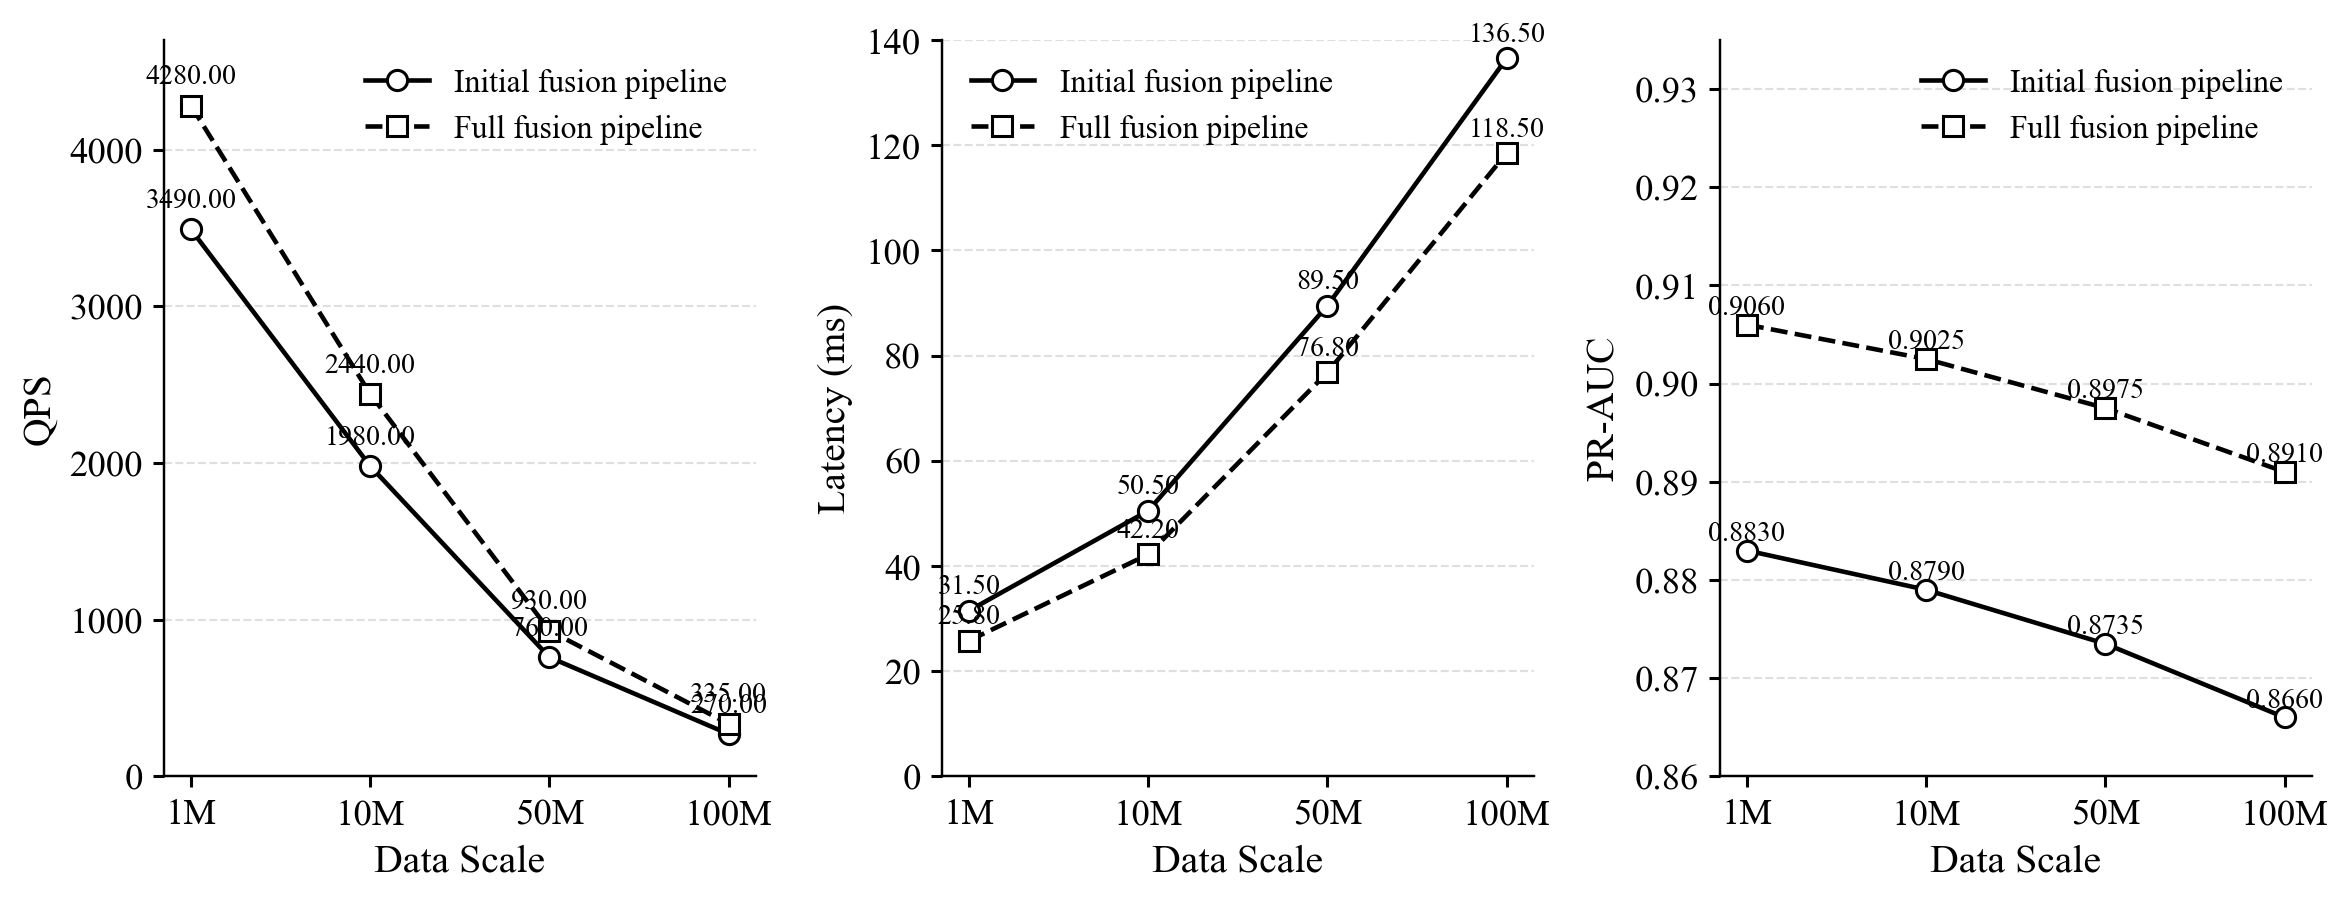
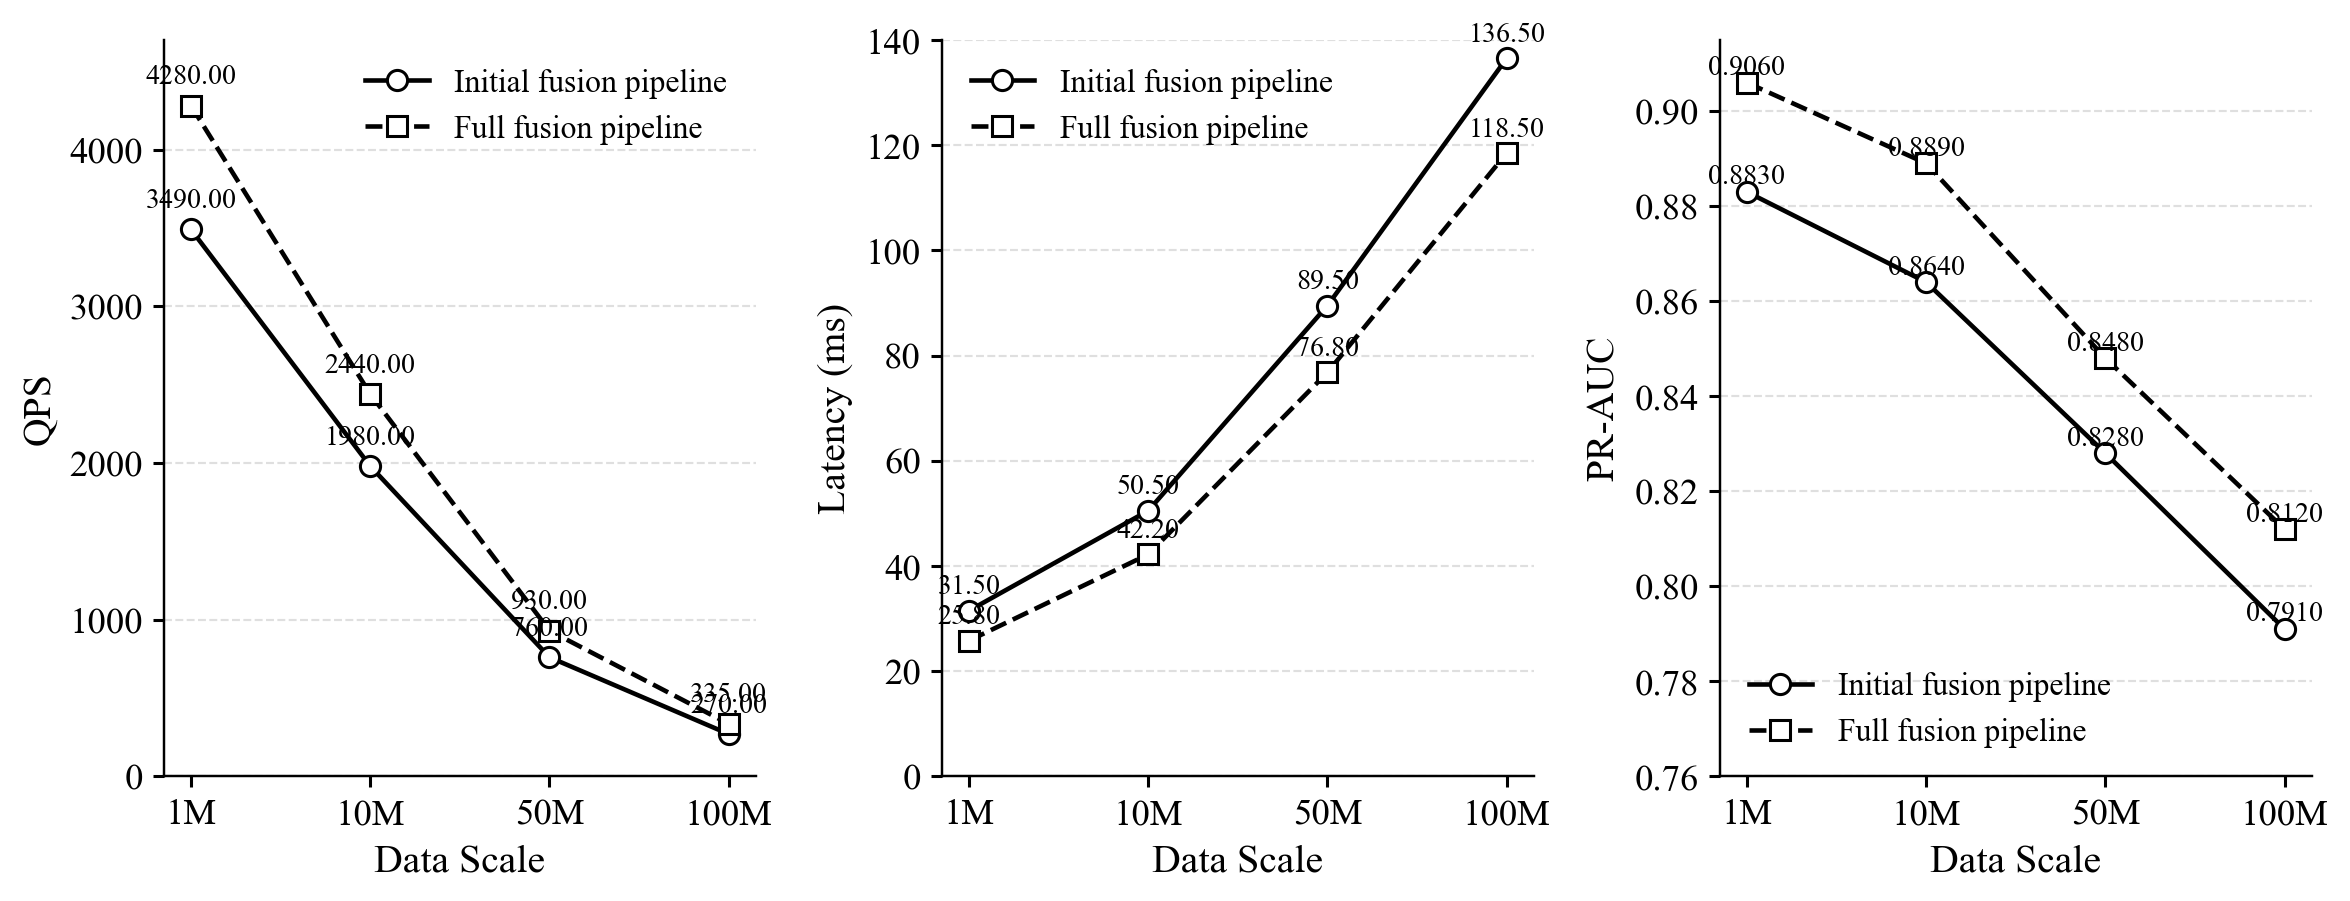
Updates from Overleaf

diff --git a/sysuthesis/chapters/chap06.tex b/sysuthesis/chapters/chap06.tex
@@ -348,7 +348,7 @@
 
 \subsection{不同数据规模下的系统表现对比}
 
-第四组结果回答“规模继续增大之后，系统还能否保持前述判断”。比较对象覆盖 1M、10M、50M、100M 四个规模层级，观察 QPS、p99 延迟和 PR-AUC 如何随规模变化。需要说明的是，PyTOD 全量评分可以作为 1M 量级下的效果上界参考，但并不适合作为 10M 以上规模的统一对照，因此这一组跨规模结果采用“初步融合方案”和“完整融合方案”作为可扩展口径下的比较对象。这里的重点不是证明系统在所有规模下都“同样优秀”，而是看在 out-of-core 路径和多 GPU 扩展逐渐进入关键位置后，前面得到的结论是否仍然成立：效果是否基本稳定，吞吐是否按预期下降，I/O 路径是否开始主导上限。
+第四组结果回答“规模继续增大之后，系统还能否保持前述判断”。比较对象覆盖 1M、10M、50M、100M 四个规模层级，观察 QPS、p99 延迟和 PR-AUC 如何随规模变化。需要说明的是，PyTOD 全量评分可以作为 1M 量级下的效果上界参考，但并不适合作为 10M 以上规模的统一对照，因此这一组跨规模结果采用“初步融合方案”和“完整融合方案”作为可扩展口径下的比较对象。这里更关注的是，在 out-of-core 路径和多 GPU 扩展逐渐进入关键位置后，系统性能与检测效果是否同时出现可解释的退化：吞吐是否按预期下降，p99 是否继续抬升，PR-AUC 和候选覆盖类指标是否在 10M 之后出现更明显回落，以及 I/O 路径是否开始主导上限。
 
 为便于综合展示，表~\ref{tab:core-summary} 汇总了核心结果，图~\ref{fig:fusion-vs-baselines}、图~\ref{fig:single-gpu-before-after}、图~\ref{fig:multi-gpu-scaling} 分别从检测效果、吞吐能力和效果--性能折中三个视角对融合系统与基线方案进行比较，图~\ref{fig:scale-comparison} 汇总单卡优化与多 GPU 扩展的收益差异，而图~\ref{fig:scale-trend} 则展示跨规模趋势。
 
@@ -368,7 +368,7 @@
     单卡链路优化收益 & 单卡优化 & QPS, p99 Latency, CPU Utilization & GPU 主导执行链路显著压缩阶段边界开销，p99 延迟和 CPU 负载同步下降，端到端吞吐明显提升 & 图~\ref{fig:single-stage-breakdown}--图~\ref{fig:single-gpu-overview}，图~\ref{fig:scale-comparison} \\
     多 GPU replicated 扩展性 & 2/4 GPU replicated & QPS, CPU Utilization & GPU 数量增加时系统吞吐近似线性增长，CPU 利用率未同步放大，说明控制面/数据平面分离设计有效 & 图~\ref{fig:qps-vs-gpu}，图~\ref{fig:scale-comparison} \\
     跨卡归并策略差异 & GPU merge vs.\ CPU aggregation & avg/p99 Latency & 当索引无法完整复制时，GPU 侧归并优于 CPU 聚合，说明``CPU 退出数据平面''在多 GPU 场景中仍然重要 & 图~\ref{fig:latency-quantiles}，表~\ref{tab:primary-vs-fallback} \\
-    跨规模可行性 & 完整融合 & QPS, p99 Latency, PR-AUC & 从 1M 扩展到 100M 时，QPS 随规模增大而下降、p99 上升，但 PR-AUC 保持相对稳定，且完整融合在可扩展口径下持续优于初步融合基线 & 图~\ref{fig:scale-trend} \\
+    跨规模可行性 & 完整融合 & QPS, p99 Latency, PR-AUC & 从 1M 扩展到 100M 时，QPS 随规模增大而下降、p99 上升，PR-AUC 与候选覆盖类指标在 10M 之后出现更明显回落，但完整融合在可扩展口径下仍持续优于初步融合基线 & 图~\ref{fig:scale-trend} \\
     \bottomrule
   \end{tabular}
   \end{adjustbox}
@@ -437,7 +437,7 @@
     多 GPU 主方案应优先采用 replicated 架构 & 表~\ref{tab:primary-vs-fallback}，图~\ref{fig:qps-vs-gpu}，图~\ref{fig:scale-comparison} & 在显存允许的前提下，replicated 方案扩展路径更简单、CPU 压力更低，吞吐随 GPU 数量增加保持稳定增长 & 5.3，5.8，6.4.2 \\
     必须跨卡归并时 GPU 侧归并优于 CPU 聚合 & 图~\ref{fig:latency-quantiles}，表~\ref{tab:primary-vs-fallback} & GPU merge 的平均延迟与 p99 延迟均低于 CPU aggregation，说明大规模中间结果不宜回流主机侧处理 & 5.5，5.8 \\
     I/O 路径组织决定多 GPU 扩展上限 & 图~\ref{fig:topology}，图~\ref{fig:io-lane-impact}，图~\ref{fig:scale-trend} & 当多卡共享 PCIe/SSD 路径时，p99 延迟上升且 QPS 恶化，合理 lane 绑定是释放多 GPU 吞吐的必要条件 & 5.6，5.8，6.4.3 \\
-    out-of-core 融合方案在超大规模下仍具工程可行性 & 图~\ref{fig:scale-trend}，表~\ref{tab:core-summary} & 即便扩展到 100M 规模，完整融合方案的 PR-AUC 仍保持在可接受区间，并在吞吐和尾延迟上继续优于可扩展弱基线，说明外存候选召回结合 GPU 评分具有可行性 & 6.4.3 \\
+    out-of-core 融合方案在超大规模下仍具工程可行性 & 图~\ref{fig:scale-trend}，表~\ref{tab:core-summary} & 即便扩展到 100M 规模，完整融合方案的 PR-AUC 已下降到约 0.8 附近，但仍在吞吐和尾延迟上继续优于可扩展弱基线，说明外存候选召回结合 GPU 评分仍具有工程可行性 & 6.4.3 \\
     \bottomrule
   \end{tabular}
   \end{adjustbox}

diff --git a/sysuthesis/plot_assets/ch06_scale_trends/render_scale_trends.py b/sysuthesis/plot_assets/ch06_scale_trends/render_scale_trends.py
@@ -38,7 +38,7 @@ def main() -> None:
     metrics = [
         ("qps", "QPS", (0, 4700)),
         ("p99_latency_ms", "Latency (ms)", (0, 140)),
-        ("pr_auc", "PR-AUC", (0.86, 0.935)),
+        ("pr_auc", "PR-AUC", (0.76, 0.915)),
     ]
     line_styles = ["-", "--"]
     markers = ["o", "s"]

diff --git a/sysuthesis/plot_assets/ch06_scale_trends/plot_scale_trends.m b/sysuthesis/plot_assets/ch06_scale_trends/plot_scale_trends.m
@@ -16,7 +16,7 @@ end
 scale_labels = {'1M', '10M', '50M', '100M'};
 metrics = {'qps', 'p99_latency_ms', 'pr_auc'};
 ylabels = {'QPS', 'Latency (ms)', 'PR-AUC'};
-y_lims = [0 4700; 0 140; 0.86 0.935];
+y_lims = [0 4700; 0 140; 0.76 0.915];
 markers = {'o', 's'};
 line_styles = {'-', '--'};
 
